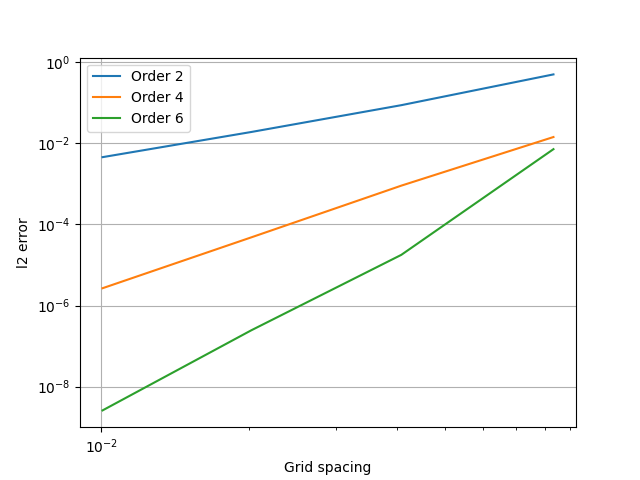
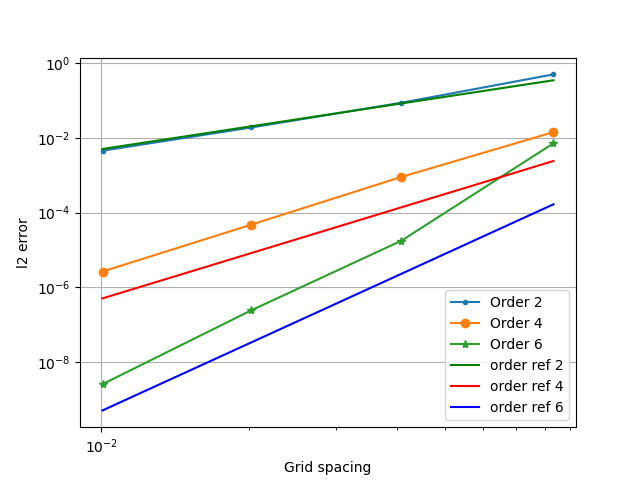
hej

diff --git a/lab11.py b/lab11.py
@@ -133,9 +133,12 @@ def main():
             # plot_final_solution(u[0], u_exact, xvec, T)
     tend = time()
     print(tend-tstart)
-    plt.loglog(hs,errors[0],label="Order 2",)
-    plt.loglog(hs,errors[1],label="Order 4")
-    plt.loglog(hs,errors[2],label="Order 6")
+    plt.loglog(hs,errors[0],label="Order 2",marker='.')
+    plt.loglog(hs,errors[1],label="Order 4",marker='o')
+    plt.loglog(hs,errors[2],label="Order 6",marker='*')
+    plt.loglog(hs,hs**2*100/2,color='g',label='order ref 2',linestyle='dashed')
+    plt.loglog(hs,hs**4*100/2,color='r',label='order ref 4',linestyle='dashed')
+    plt.loglog(hs,hs**6*1000/2,color='b',label='order ref 6',linestyle='dashed')
     print(errors)
     plt.grid(visible=True)
     plt.xlabel('Grid spacing')
